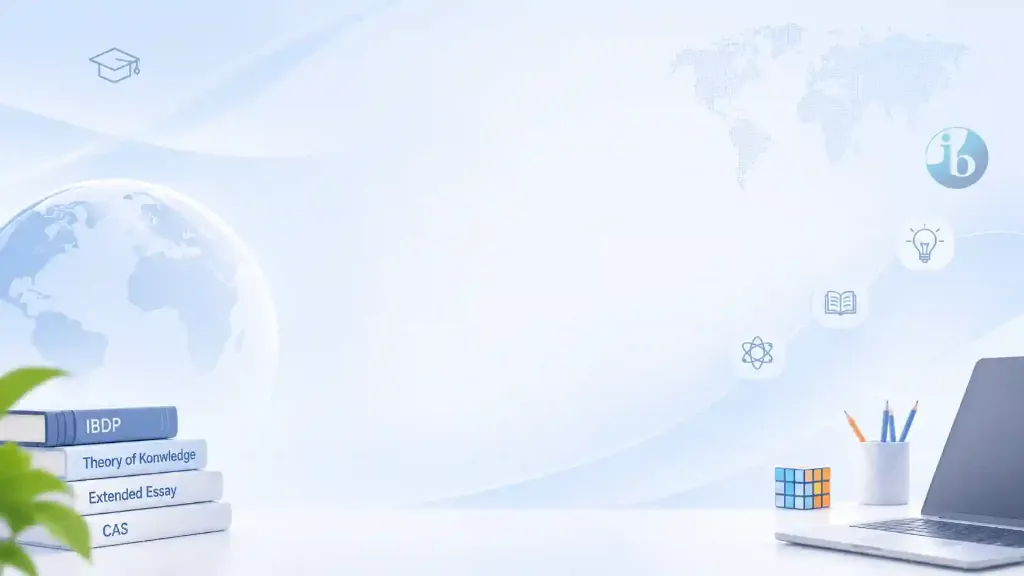
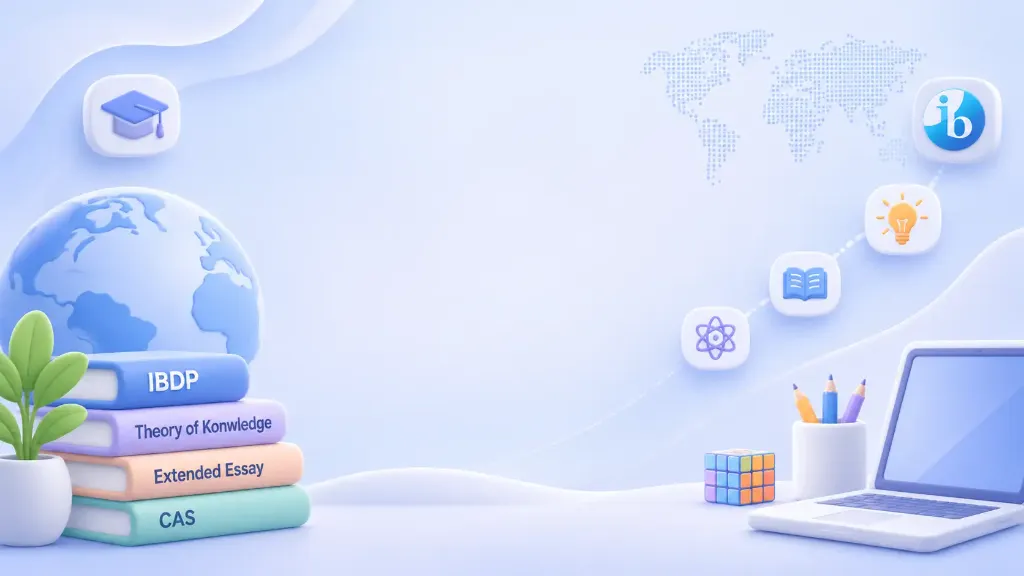
style(ibdp): update IBDP auth page background to 3D claymorphic illustration

diff --git a/frontend/src/features/ibdp/IbdpCurriculumPortal.jsx b/frontend/src/features/ibdp/IbdpCurriculumPortal.jsx
@@ -821,11 +821,11 @@ export default function IbdpCurriculumPortal() {
           overflow: 'hidden',
           position: 'fixed',
           inset: 0,
-          backgroundImage: "url('/ibdp-auth-bg.webp')",
+          backgroundImage: "url('/ibdp-auth-clay-bg.webp')",
           backgroundSize: 'cover',
           backgroundPosition: 'center',
           backgroundRepeat: 'no-repeat',
-          backgroundColor: '#E8F1FC',
+          backgroundColor: '#DDE7FF',
           display: 'flex',
           flexDirection: 'column',
           alignItems: 'center',
